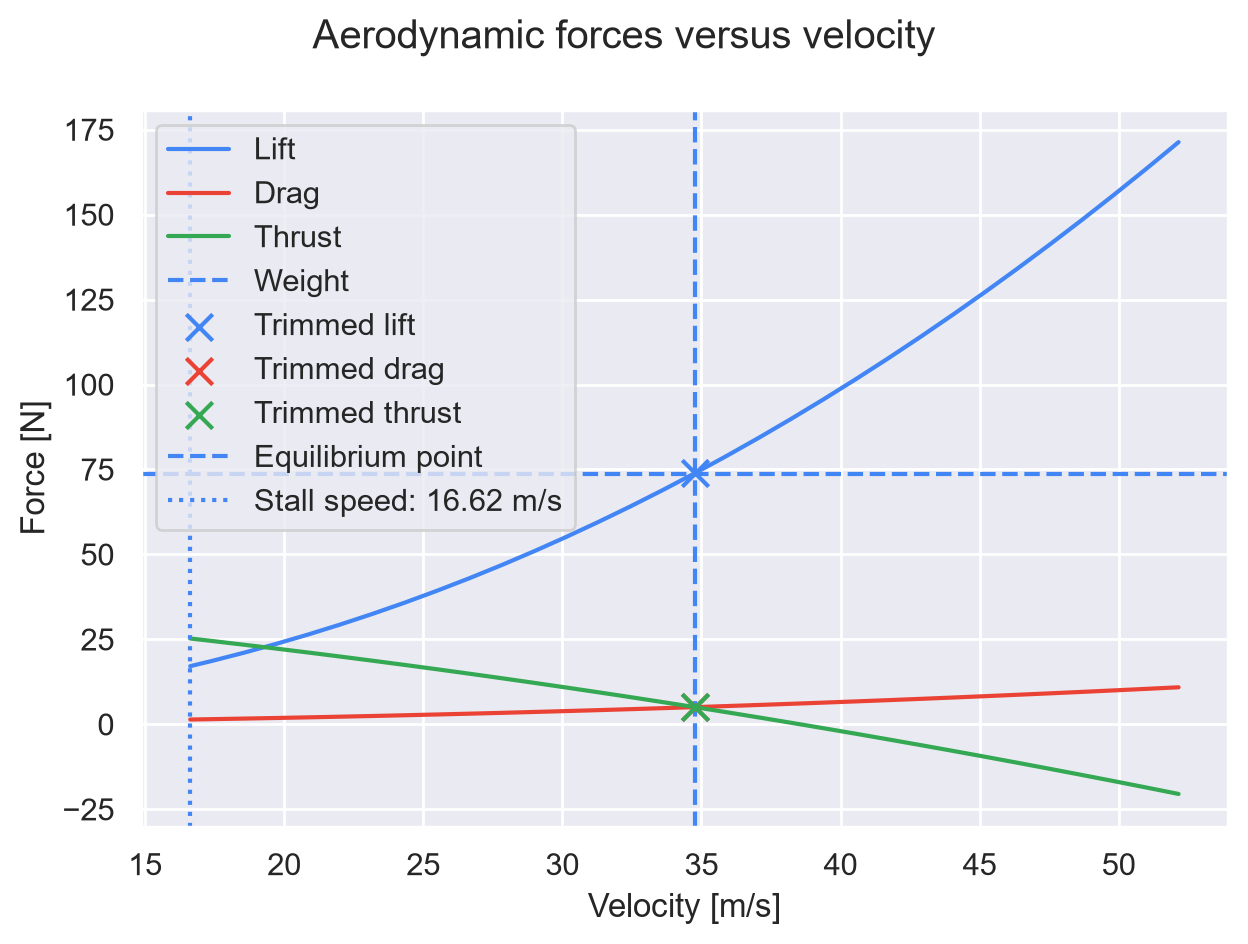
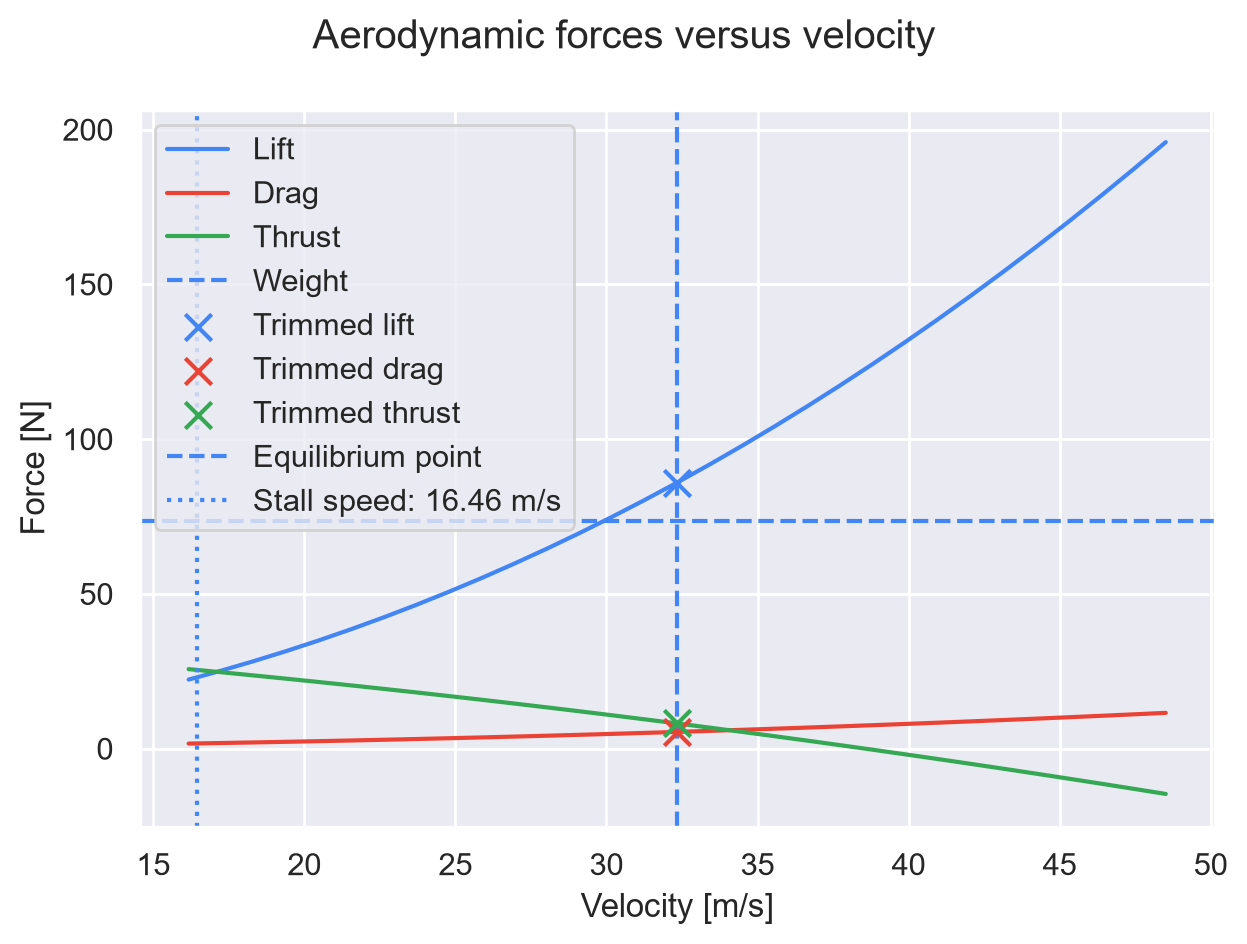
aero coarse version

diff --git a/src/aero/cruise_analysis_coarse.py b/src/aero/cruise_analysis_coarse.py
@@ -1,0 +1,103 @@
+from time import perf_counter
+
+import aerosandbox as asb
+import aerosandbox.numpy as np
+from aerosandbox import OperatingPoint
+
+from src.aero.custom_classes import CruiseCondition
+from src.vectors import DesignVector, ParameterVector
+
+
+def cruise_analysis_coarse(
+    design_vector: DesignVector,
+    parameter_vector: ParameterVector,
+    thrust_velocity: tuple[float, float, float],
+    cg: tuple[float, float, float],
+    mass: float,
+    mission: int,
+) -> CruiseCondition:
+    """
+    Trim cruise with a fast algebraic aerodynamic model.
+
+    Coarse version of initial cruise solver. Changes from full version: 
+    - AeroBuildup not used for any aero calculations (to save from the time it takes to construct the object and run the full analysis
+    for each new v/alpha/deflection).
+    - Same optimization variables used (v, alpha, elevator deflection) 
+    - Same ASB optimization approach
+    """
+    if mass <= 0 or parameter_vector.rho <= 0:
+        raise ValueError("Mass and air density must be positive.")
+
+    opti = asb.Opti()
+    velocity = opti.variable(init_guess=18.0, scale=20.0, lower_bound=3.0, upper_bound=50.0)
+    alpha = opti.variable(init_guess=4.0, scale=5.0, lower_bound=-4.0, upper_bound=15.0)
+    elevator = opti.variable(init_guess=0.0, scale=10.0, lower_bound=-20.0, upper_bound=20.0)
+
+    # Lifting-line slopes; assumes attached, linear flow.
+    wing_ar = design_vector.wing_span**2 / design_vector.wing_area
+    tail_ar = design_vector.hstab_span**2 / design_vector.hstab_area
+    wing_slope = 2 * np.pi / (1 + 2 / wing_ar)
+    tail_slope = 2 * np.pi / (1 + 2 / tail_ar)
+    alpha_rad, elevator_rad = np.radians(alpha), np.radians(elevator)
+    wing_cl = wing_slope * (alpha_rad - np.radians(-2.0))  # Estimated zero-lift angle.
+    tail_cl = tail_slope * (0.65 * alpha_rad + 0.60 * elevator_rad)  # Downwash and elevator estimates.
+    tail_ratio = design_vector.hstab_area / design_vector.wing_area
+    total_cl = wing_cl + 0.90 * tail_ratio * tail_cl  # Assumed tail dynamic-pressure ratio.
+
+    # Quarter-chord forces; assumes wing Cm_ac = -0.05.
+    wing_ac = 0.25 * design_vector.wing_chord
+    tail_ac = design_vector.tail_arm + 0.25 * design_vector.hstab_chord
+    cm = (
+        -0.05
+        + wing_cl * (cg[0] - wing_ac) / design_vector.wing_chord
+        - 0.90 * tail_ratio * tail_cl * (tail_ac - cg[0]) / design_vector.wing_chord
+    )
+
+    # Empirical parasite drag plus Oswald induced drag.
+    cd0 = (
+        0.018
+        + 0.012 * (design_vector.hstab_area + design_vector.vstab_area) / design_vector.wing_area
+        + 0.08 * design_vector.fuselage_width * design_vector.fuselage_height / design_vector.wing_area
+    )
+    cd = (
+        cd0
+        + wing_cl**2 / (np.pi * 0.85 * wing_ar)
+        + 0.90 * tail_ratio * tail_cl**2 / (np.pi * 0.80 * tail_ar)
+    )
+
+    dynamic_pressure = 0.5 * parameter_vector.rho * velocity**2
+    lift = dynamic_pressure * design_vector.wing_area * total_cl
+    drag = dynamic_pressure * design_vector.wing_area * cd
+    if mission == 3:
+        drag += 0.005 * parameter_vector.rho * velocity**2 * design_vector.banner_length**2
+    a, b, c = thrust_velocity
+    thrust = a * velocity**2 + b * velocity + c
+    weight = mass * parameter_vector.gravity
+
+    lift_residual = (lift - weight) / weight
+    drag_residual = (drag - thrust) / weight
+    moment_residual = dynamic_pressure * design_vector.wing_area * cm / weight
+    trim_error = lift_residual**2 + drag_residual**2 + moment_residual**2
+    opti.minimize(trim_error)
+
+    start = perf_counter()
+    try:
+        solution = opti.solve(verbose=False)
+        solved_velocity = float(solution.value(velocity))
+        solved_alpha = float(solution.value(alpha))
+        solved_elevator = float(solution.value(elevator))
+        residuals = [abs(float(solution.value(r))) for r in (lift_residual, drag_residual, moment_residual)]
+        converged = max(residuals) <= 1e-2
+    except RuntimeError:
+        return CruiseCondition(OperatingPoint(velocity=-1.0, alpha=-999.0), None, False)
+
+    # Assumes section CL_max = 1.45 with a finite-wing correction.
+    cl_max = 1.45 * wing_ar / (wing_ar + 2.0)
+    stall_speed = np.sqrt(2 * weight / (parameter_vector.rho * design_vector.wing_area * cl_max))
+    print(f"[aero] Coarse trim finished in {perf_counter() - start:.4f} s (converged={converged}).", flush=True)
+    return CruiseCondition(
+        operating_point=OperatingPoint(velocity=solved_velocity, alpha=solved_alpha),
+        stall_speed=float(stall_speed) if converged else None,
+        converged=converged,
+        elevator_deflection=solved_elevator,
+    )

diff --git a/src/aero/stability_analysis_coarse.py b/src/aero/stability_analysis_coarse.py
@@ -1,0 +1,73 @@
+from types import SimpleNamespace
+
+import numpy as np
+from aerosandbox.dynamics.flight_dynamics.airplane import get_modes
+from aerosandbox.weights.mass_properties import MassProperties
+
+from src.aero.custom_classes import CruiseCondition, StabilityResult
+from src.aero.utils import dict_to_mode_result, require_scalar
+from src.vectors import DesignVector
+
+
+def stability_analysis_coarse(
+    design_vector: DesignVector,
+    cruise_condition: CruiseCondition,
+    mass_props: MassProperties,
+) -> StabilityResult:
+    """Estimate stability from conceptual-design formulas."""
+    if not cruise_condition.converged:
+        raise ValueError("Cruise condition must be converged.")
+
+    velocity = require_scalar(cruise_condition.operating_point.velocity)
+    if velocity <= 0:
+        raise ValueError("Cruise velocity must be positive.")
+
+    s, c, b = design_vector.wing_area, design_vector.wing_chord, design_vector.wing_span
+    st, sv = design_vector.hstab_area, design_vector.vstab_area
+    xcg = require_scalar(mass_props.x_cg)
+    xw, xt = 0.25 * c, design_vector.tail_arm + 0.25 * design_vector.hstab_chord
+    lt = xt - xcg
+
+    # Linear finite-wing lift; assumes 15% downwash and 90% tail efficiency.
+    aw = 2 * np.pi / (1 + 2 / (b**2 / s))
+    at = 2 * np.pi / (1 + 2 / (design_vector.hstab_span**2 / st))
+    av = 2 * np.pi / (1 + 2 / (design_vector.vstab_span**2 / sv))
+    eta, downwash = 0.90, 0.15
+    cla = aw + eta * st / s * at * (1 - downwash)
+    cma = aw * (xcg - xw) / c - eta * st / s * at * (1 - downwash) * lt / c
+    cmq = -1.6 * eta * at * (st * lt / (s * c)) * lt / c  # Tail-dominated pitch damping.
+
+    # Trim lift and parabolic drag estimates.
+    q = require_scalar(cruise_condition.operating_point.dynamic_pressure())
+    cl = require_scalar(mass_props.mass) * 9.806 / (q * s)
+    cd = 0.02 + cl**2 / (np.pi * 0.85 * b**2 / s)
+
+    # Vertical-tail derivatives; assumes 90% sidewash efficiency.
+    cyb = -eta * av * sv / s
+    cnb = -cyb * lt / b - 0.05  # Tail stability minus fuselage estimate.
+    cnr = 2 * cyb * (lt / b) ** 2
+    cyr = -2 * cyb * lt / b
+
+    # Rectangular-wing damping; tail height supplies dihedral effect.
+    clb = -cyb * (0.5 * design_vector.vstab_span - require_scalar(mass_props.z_cg)) / b
+    clp = -aw / 8
+    clr = cl / 4
+
+    aero = {
+        "CL": cl, "CD": cd, "Cma": cma, "Cmq": cmq,
+        "CYb": cyb, "CYr": cyr, "Clb": clb, "Clp": clp,
+        "Clr": clr, "Cnb": cnb, "Cnr": cnr,
+    }
+    airplane = SimpleNamespace(s_ref=s, c_ref=c, b_ref=b)
+    modes = get_modes(airplane, cruise_condition.operating_point, mass_props, aero)
+
+    return StabilityResult(
+        phugoid=dict_to_mode_result(modes["phugoid"]),
+        short_period=dict_to_mode_result(modes["short_period"]),
+        dutch_roll=dict_to_mode_result(modes["dutch_roll"]),
+        spiral=dict_to_mode_result(modes["spiral"]),
+        roll_subsidence=dict_to_mode_result(modes["roll_subsidence"]),
+        Cma=float(cma),
+        Cnb=float(cnb),
+        static_margin=float(-cma / cla),
+    )

diff --git a/src/aero/main_aero.py b/src/aero/main_aero.py
@@ -9,9 +9,9 @@ import numpy as np
 from src.aero.custom_classes import AeroOutput, StabilityResult, CruiseCondition, AirplaneAnalysisResult
 from src.vectors import ASBDesignVector, DesignVector, ParameterVector
 from src.aero.utils import require_scalar
-from src.aero.cruise_analysis import cruise_analysis
+from src.aero.cruise_analysis_coarse import cruise_analysis_coarse
 from src.aero.aero_analysis import aero_analysis
-from src.aero.stability_analysis import stability_analysis
+from src.aero.stability_analysis_coarse import stability_analysis_coarse
 from src.aero.aero_score import AeroScore, aero_score
 from src.aero.plot_aero_result import plot_aero_result
 
@@ -59,7 +59,9 @@ def aero_main(
     )
 
     # Main trim solver. Contains ASB optimization methods and calls to aero_analysis to perform force/moment balance.
-    cruise_condition = cruise_analysis(design_vector, parameter_vector, thrust_velocity, cg, mass, mission)
+    cruise_condition = cruise_analysis_coarse(
+        design_vector, parameter_vector, thrust_velocity, cg, mass, mission
+    )
     print(
         f"[aero] Cruise analysis complete (converged={cruise_condition.converged}).",
         flush=True,
@@ -74,7 +76,7 @@ def aero_main(
 
     # Final call to stability_analysis to get final stability results for design vector at trim.
     print("[aero] Running static and dynamic stability analysis...", flush=True)
-    stability_result = stability_analysis(design_vector, cruise_condition, mass_props)
+    stability_result = stability_analysis_coarse(design_vector, cruise_condition, mass_props)
 
     # Return final score for design vector based on cruise speed, stall speed, and stability numbers.
     score = aero_score(cruise_condition, stability_result, parameter_vector)

diff --git a/src/main.py b/src/main.py
@@ -56,7 +56,7 @@ def main(dv: DesignVector, pv: ParameterVector) -> tuple[float, list[float]]:
         cg=m3_properties.cg_m,
         inertia_matrix=m3_properties.inertia_tensor_kg_m2,
         mass=m3_properties.total_mass_kg,
-        disp_res=True,
+        disp_res=False,
     )
 
     tot_score, breakdown = total_score(
